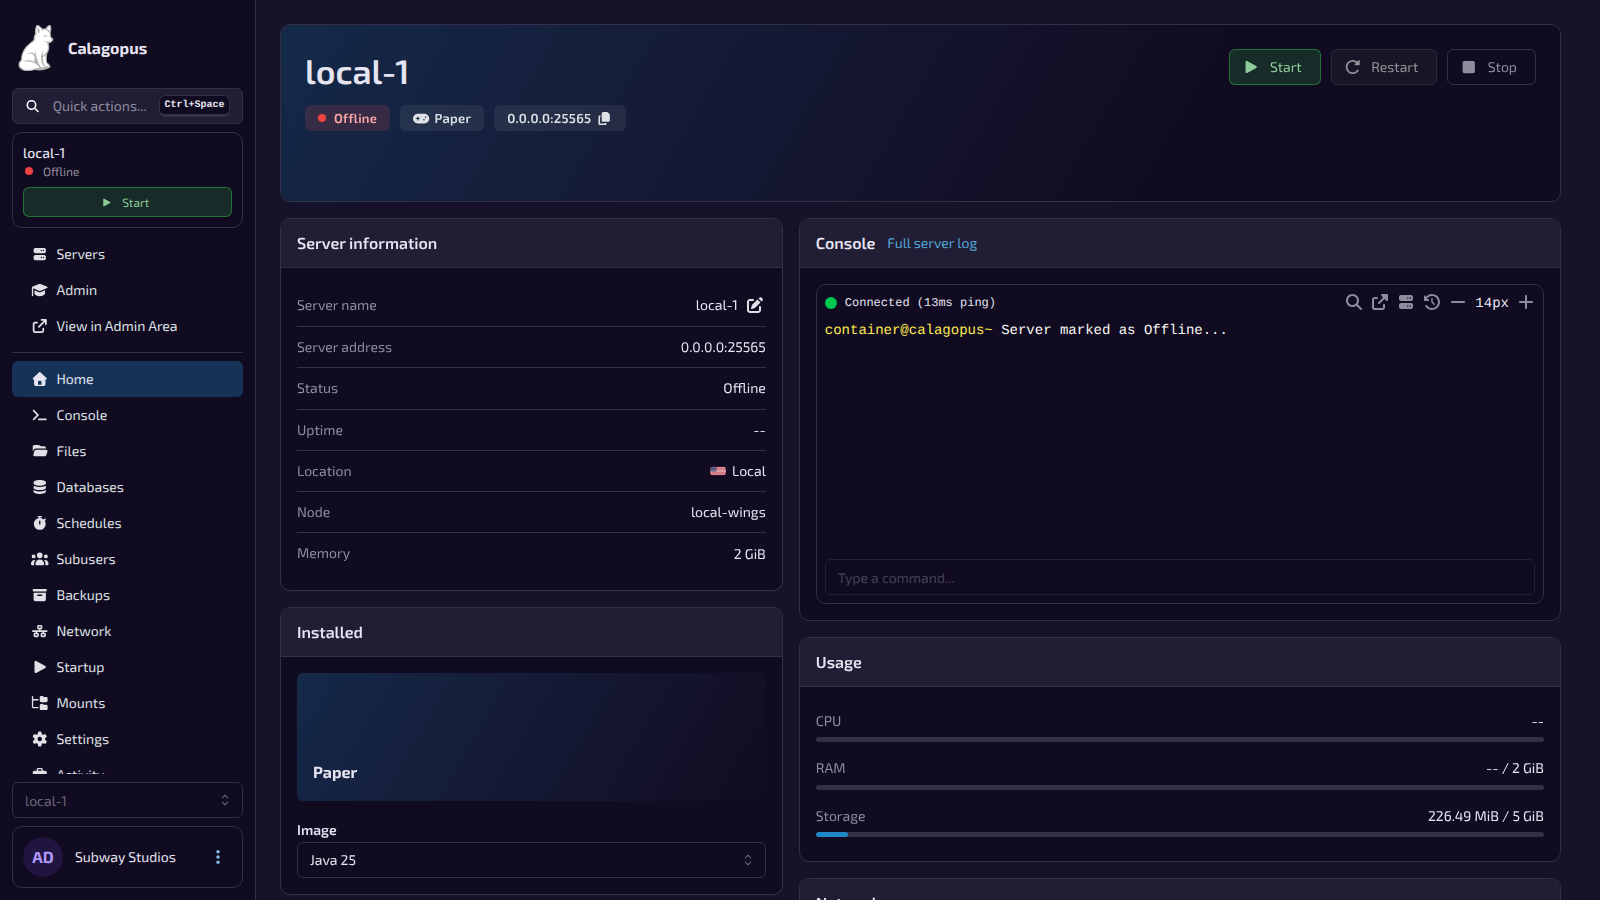
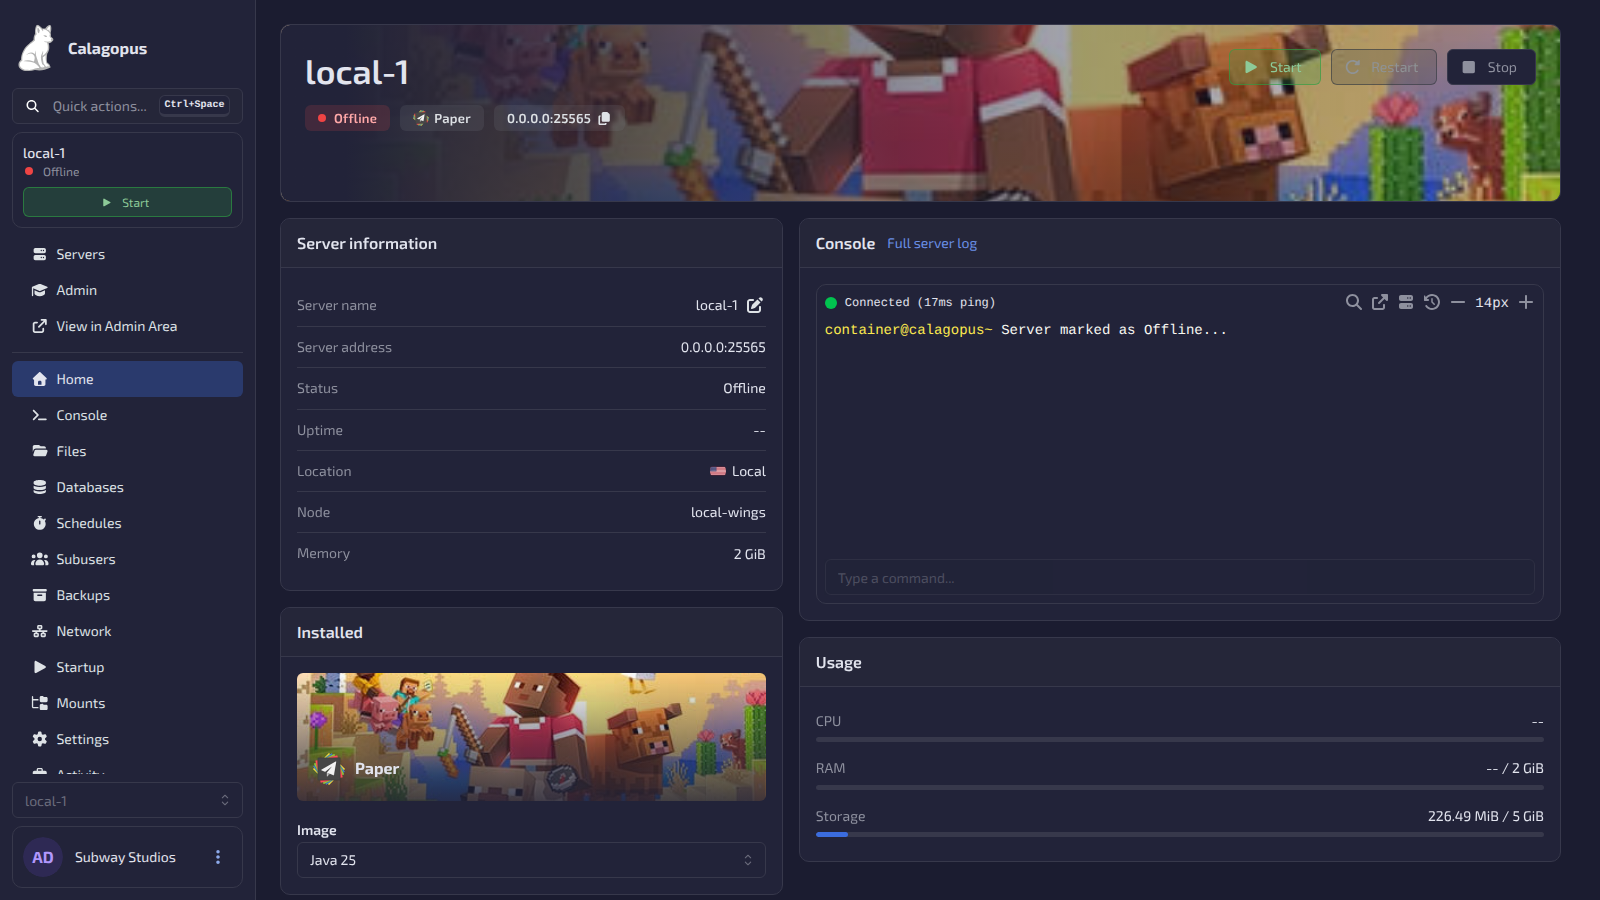
shorten readme and use themed screenshots

diff --git a/README.md b/README.md
@@ -1,6 +1,8 @@
 # Nebula Theme for Calagopus
 
-A dark navy theme for Calagopus Panel with a built-in visual theme editor.
+[![Built with Claude Code](https://img.shields.io/badge/built%20with-Claude%20Code-D97757?logo=claude&logoColor=white)](https://claude.com/claude-code)
+
+Dark theme for Calagopus Panel with a built-in theme editor.
 
 ## Preview
 
@@ -12,39 +14,21 @@ A dark navy theme for Calagopus Panel with a built-in visual theme editor.
 | --- | --- |
 | ![Grid view](docs/dashboard-grid.png) | ![Theme editor](docs/theme-editor.png) |
 
-## Requirements
-
-Calagopus Panel 1.2.0 or newer.
-
 ## Install
 
+Needs Calagopus Panel 1.2.0 or newer.
+
 1. Download `dev_s4way_nebula.c7s.zip` from the [latest release](../../releases/latest).
-2. In the panel go to Admin, then Extensions, and install the file.
-3. Restart the panel when it asks you to.
+2. In the panel: Admin, then Extensions, then install the file.
+3. Restart the panel.
 
-## What it changes
+## Editor
 
-- Colours, corner rounding and bundled fonts (Exo 2, Montserrat), with four button styles.
-- Server list as a table or a grid, with search, a status filter and per egg artwork.
-- A server home page: banner, server information, installed game, console, usage and network cards.
-- Sidebar sections that collapse, named from the panel's own route order.
+Admin, then Theme Editor. Colours, fonts, corners, button styles, background, per egg artwork,
+getting started links and the home page layout, with a live preview. Saving applies it for everyone.
 
-## Theme editor
+## Notes
 
-Admin, then Theme Editor (the extension's configure button opens the same page). It covers presets,
-the full colour palette, fonts and corners, the background image, per egg banners and icons, the
-getting started links and which cards the home page shows, with a live preview of the real panel.
-Saving applies the theme for everyone, including the login page.
+Made with Claude. Provided as is, no promise of updates.
 
-## Credits
-
-Built by wrrfsub, co-authored with Claude (Anthropic). The whole theme was written with Claude.
-
-## Support
-
-This is provided as is. I do not promise updates, fixes, or support for future panel versions.
-
-## Licence
-
-The code is covered by [LICENSE](LICENSE). The bundled fonts are licensed under the SIL Open Font
-License; their licences ship next to them in `frontend/src/fonts/`.
+Code: [LICENSE](LICENSE). Bundled fonts are SIL Open Font License, licences in `frontend/src/fonts`.
